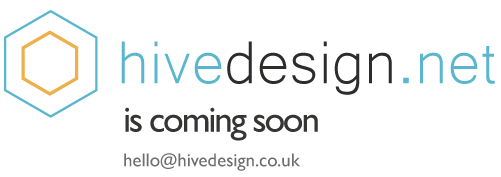
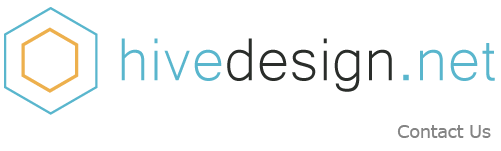
contact us added to holding page .

diff --git a/src/app/holding-page/holding-page.component.html b/src/app/holding-page/holding-page.component.html
@@ -1,60 +1,34 @@
 <div class="holding-page">
     <div class="holding-block">
         <div class="item" [ngClass]="{'js-added': jsfloat}">
-
+<div class="image-wrapper">
             <img src="/assets/images/holding-page/holding-image.png" alt="" (click)="contacts=!contacts">
-
-            <div class="contact-wrapper" [ngClass]="contacts ? 'open' : ''" >
-                <p>Lorem, ipsum dolor sit amet consectetur adipisicing elit. Voluptatem, sit.</p>
+        </div>
+            <div class="contact-wrapper" [ngClass]="contacts ? 'open' : ''">
+                
                 <div class="row">
-                <div class="col">
-                <form>
-                    <div class="form-group">
-                        <label for="exampleFormControlInput1">Email address</label>
-                        <input type="email" class="form-control" id="exampleFormControlInput1" placeholder="name@example.com">
-                    </div>
-                    <div class="form-group">
-                        <label for="exampleFormControlSelect1">Example select</label>
-                        <select class="form-control" id="exampleFormControlSelect1">
-                            <option>1</option>
-                            <option>2</option>
-                            <option>3</option>
-                            <option>4</option>
-                            <option>5</option>
-                        </select>
-                    </div>
-                    <div class="form-group">
-                        <label for="exampleFormControlTextarea1">Example textarea</label>
-                        <textarea class="form-control" id="exampleFormControlTextarea1" rows="3"></textarea>
-                    </div>
-                    <div class="form-check">
-                        <input class="form-check-input" type="checkbox" value="" id="defaultCheck1">
-                        <label class="form-check-label" for="defaultCheck1">
-                            Default checkbox
-                        </label>
-                    </div>
+                    <div class="col">
+                        <form>
+                            <div class="form-group">
 
-                    <div class="form-check">
-                            <input class="form-check-input" type="radio" name="exampleRadios" id="exampleRadios1" value="option1" checked>
-                            <label class="form-check-label" for="exampleRadios1">
-                              Default radio
-                            </label>
-                          </div>
-                          <div class="form-check">
-                            <input class="form-check-input" type="radio" name="exampleRadios" id="exampleRadios2" value="option2">
-                            <label class="form-check-label" for="exampleRadios2">
-                              Second default radio
-                            </label>
-                          </div>
-                          <div class="form-check disabled">
-                            <input class="form-check-input" type="radio" name="exampleRadios" id="exampleRadios3" value="option3" disabled>
-                            <label class="form-check-label" for="exampleRadios3">
-                              Disabled radio
-                            </label>
-                          </div>
-                </form>
-            </div>
-            </div>
+                                <input type="email" class="form-control" id="exampleFormControlInput1" placeholder="name">
+                            </div>
+                            <div class="form-group">
+                                <select class="form-control" id="exampleFormControlSelect1">
+                                    <option>Query Type</option>
+                                    <option>2</option>
+                                    <option>3</option>
+                                    <option>4</option>
+                                    <option>5</option>
+                                </select>
+                            </div>
+                            <div class="form-group">
+                                <textarea class="form-control" id="exampleFormControlTextarea1" rows="3" placeholder="Further Information"></textarea>
+                            </div>
+                            <button type="submit" class="btn btn-primary">Submit</button>
+                        </form>
+                    </div>
+                </div>
             </div>
         </div>
     </div>

diff --git a/src/app/holding-page/holding-page.component.scss b/src/app/holding-page/holding-page.component.scss
@@ -15,6 +15,9 @@
         
         .item {
             //border: 1px solid red;
+            .image-wrapper             {
+                text-align: center;
+            }
             box-shadow: 0 0px 0px #555;
             transition: all 1s ease-in;
             padding: 30px;
@@ -25,14 +28,16 @@
 
     }
     .contact-wrapper{
-        max-width: 600px;
         padding-top: 0px;
         max-height: 0;
         overflow: hidden;
-        transition: all 7.5s ease-in;
+        transition: all 2s  !important;
+        opacity:0;
         &.open {
-            max-height: 400px;
+            max-height: 1000px;
             padding-top: 40px;
+            opacity:1;
+            transition: max-height 1s ease-in, padding 1s ease-in, opacity 1s 1s !important;
         }
     }
     .form-check {
